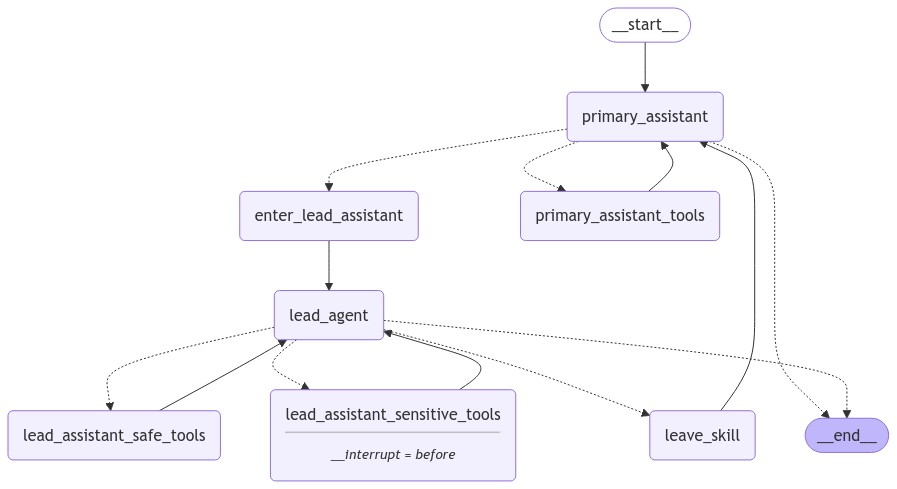
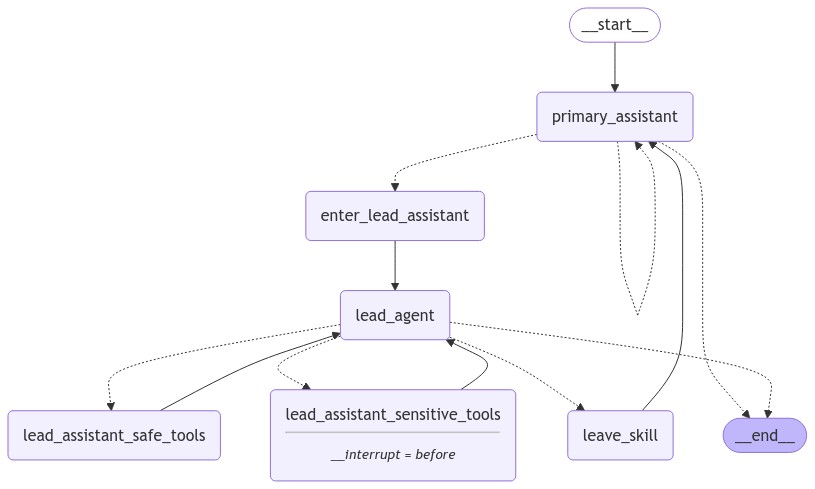
langgraph API

diff --git a/app/support_files/tool_execution.py b/app/support_files/tool_execution.py
@@ -10,82 +10,90 @@ graph = neo4j_connection()
 @tool
 def customer_existence_verification(name: str = None, email: str = None, phone: str = None, civil_id: str = None):
     """
-    Verify the existence of the Customer in our Database before lead creation.
-    
+    Verify the existence of the Customer in the database before lead creation.
+
     Parameters:
     - name: Customer's name (optional).
     - email: Customer's email (optional).
     - phone: Customer's phone (optional).
     - civil_id: Customer's civil ID (optional).
-    
+
     Returns:
     - Clear and actionable messages for the lead agent to understand the verification results.
-"""
-    def get_value(attributes):
-        return None if attributes is None or attributes.strip() == "" else attributes
+    """
 
+    def get_value(attr):
+        """Helper function to clean up attribute values."""
+        return None if attr is None or attr.strip() == "" else attr
+
+    # Clean inputs
     name = get_value(name)
     email = get_value(email)
     phone = get_value(phone)
     civil_id = get_value(civil_id)
-    def validation():
-        phone_validation = True
-        civil_validation = True
-        email_validation = True
 
+    if not name and not email and not phone and not civil_id:
+        # Ensure at least one parameter is provided
+        return "Error: At least one of name, email, phone, or civil ID is required to verify customer existence."
+
+    def validation():
+        """Validate the phone, email, and civil ID if provided."""
         if phone:
             phone_validation = validate_phone_number(phone)
             if phone_validation is not True:
                 return phone_validation
-        
+
         if civil_id:
             civil_validation = validate_civil_id(civil_id)
             if civil_validation is not True:
                 return civil_validation
-        
+
         if email:
             email_validation = validate_email_address(email)
             if email_validation is not True:
                 return email_validation
 
-        # If all validations pass, return True
-        return all([phone_validation, civil_validation, email_validation])
+        return True
 
     validated = validation()
 
     if validated == True:
-
         query = graph.query("""MATCH (c:Lead) RETURN c.name AS customer_name""")
-        names_list = [name for i in query for name in [i['customer_name']]]
+        names_list = [name['customer_name'] for name in query]
 
         def split_names(names):
-            return [name.split(' ', 1) if ' ' in name else name for name in names]
+            """Split full names into first and last for better matching."""
+            return [name.split(' ', 1) if ' ' in name else [name] for name in names]
 
         names_list = split_names(names_list)
-        def similar_names(user_name, names_list, threshold=0.86):
+
+        def find_similar_names(input_name, names_list, threshold=0.86):
+            """Find similar names in the database based on Jaro-Winkler similarity."""
             similar_names = []
             for name in names_list:
-                if isinstance(name, str):
-                    similarity = distance.get_jaro_distance(user_name, name)
-                    if similarity >= threshold:
-                        similar_names.append((name, similarity))
-                else:
-                    for i in name:
-                        similarity = distance.get_jaro_distance(user_name, i)
-                        if similarity >= threshold:
-                            similar_names.append((' '.join(name), similarity))
+                full_name = ' '.join(name) if isinstance(name, list) else name
+                similarity = distance.get_jaro_distance(input_name, full_name)
+                if similarity >= threshold:
+                    similar_names.append((full_name, similarity))
             return similar_names
 
-        if name and all(x is None for x in (phone, civil_id, email)):
-
-            name_result = similar_names(name, names_list, threshold=0.86)
-            print(name_result)
-            if name_result:
-                return f"The provided Name is associated with the following customer(s): {[i[0] for i in name_result]}. Would you like to proceed with one of these customers, or would you prefer to create a new lead?"        
+        if name and all(param is None for param in (phone, civil_id, email)):
+            # Verify only by name
+            name_matches = find_similar_names(name, names_list)
+            if name_matches:
+                matched_names = ', '.join([i[0] for i in name_matches])
+                return (
+                    f"The provided name is associated with the following customer(s): {matched_names}. "
+                    "Would you like to proceed with one of these customers, or create a new lead?"
+                )
             else:
-                return f"No matching results were found for the name '{name}'. Please review or confirm the provided details. Would you like to create a new lead instead?"
+                return (
+                    f"No matching results found for the name '{name}'. Please review or confirm the provided details. "
+                    "Would you like to create a new lead instead?"
+                )
 
         else:
+            # Create query with dynamic conditions based on provided data
             query = """
             MATCH (l:Lead)
             WHERE toLower(l.name) = toLower($name)
@@ -97,13 +105,15 @@ def customer_existence_verification(name: str = None, email: str = None, phone: 
                 conditions.append("l.civil_id = $civil_id")
             if email:
                 conditions.append("l.email = $email")
-            
+
             if conditions:
                 query += " AND " + " AND ".join(conditions)
 
             query += """
             RETURN l.name AS lead_name, l.phone_number AS phone_number, l.civil_id AS civil_id, l.email AS email, l.id AS lead_id
-            """        
+            """
+
+            # Run the query and check if a customer exists with the provided details
             verified_result = graph.query(query, {
                 'name': name,
                 'phone': phone,
@@ -112,12 +122,15 @@ def customer_existence_verification(name: str = None, email: str = None, phone: 
             })
 
             if verified_result:
-                return f"A customer named '{name}' already exists in our system with matching details (Phone: {verified_result[0]['phone_number']}, Email: {verified_result[0]['email']}, Civil ID: {verified_result[0]['civil_id']}). Would you like to proceed with this customer, or create a new lead?"
-            
-            else:        
+                customer_data = verified_result[0]
+                return (
+                    f"A customer named '{customer_data['lead_name']}' already exists in our system "
+                    f"with matching details (Phone: {customer_data['phone_number']}, Email: {customer_data['email']}, Civil ID: {customer_data['civil_id']}). "
+                    "Would you like to proceed with this customer, or create a new lead?"
+                )
+            else:
+                # Handle semi-verified results by running individual queries for each identifier
                 cypher_queries = []
-                semi_verified_result = []
-
                 if phone:
                     phone_query = """
                     MATCH (c:Lead)
@@ -142,6 +155,7 @@ def customer_existence_verification(name: str = None, email: str = None, phone: 
                     """
                     cypher_queries.append(("email", email_query))
 
+                # Run each individual query for partial verification
                 for query_type, query in cypher_queries:
                     db_result = graph.query(query, {
                         'name': name,
@@ -151,11 +165,21 @@ def customer_existence_verification(name: str = None, email: str = None, phone: 
                     })
 
                     if db_result:
-                        return f"I have identified that the {query_type} you provided is associated with {db_result[0]['customer_name']}. Could you please confirm or provide the correct {query_type} for {name}?"
+                        customer_data = db_result[0]
+                        return (
+                            f"I have identified that the {query_type} you provided is associated with "
+                            f"{customer_data['customer_name']}. Could you please confirm or provide the correct {query_type} "
+                            f"for {name}?"
+                        )
 
-                    else:
-                        return f"I was unable to locate the {query_type} ({phone if query_type == 'phone number' else civil_id if query_type == 'civil ID' else email}) in our system. Would you like to proceed with creating a new lead?"
-    else:return validated
+                return (
+                    "No matching records found for the provided details. "
+                    "Would you like to proceed with creating a new lead?"
+                )
+    else:
+        # Return the validation error message
+        return f"Validation Error: {validated}"
+
 
 @tool
 def customer_lead_creation(

diff --git a/app/main.py b/app/main.py
@@ -29,8 +29,7 @@ from langgraph.graph.message import AnyMessage, add_messages
 import os
 
 LANGCHAIN_TRACING_V2="true"
-LANGCHAIN_ENDPOINT="https://api.smith.langchain.com"
-LANGCHAIN_API_KEY= "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"
+LANGCHAIN_API_KEY= os.getenv("LANGCHAIN_API_KEY")
 LANGCHAIN_PROJECT="LangGraph-Chatbot"
 
 def update_dialog_stack(left: list[str], right: Optional[str]) -> list[str]:
@@ -203,8 +202,8 @@ primary_assistant_prompt = ChatPromptTemplate.from_messages(
     ]
 ).partial(time=datetime.now(ist_timezone).isoformat())
 
-primary_assistant_tools = [customer_existence_verification]
-primary_assistant_runnable = primary_assistant_prompt | model.bind_tools(primary_assistant_tools +[Lead_assistant])
+# primary_assistant_tools = [customer_existence_verification]
+primary_assistant_runnable = primary_assistant_prompt | model.bind_tools([Lead_assistant])
 def pop_dialog_state(state: State) -> dict:
     """Pop the dialog stack and return to the main assistant.
 
@@ -245,7 +244,7 @@ builder.add_node(
 
 builder.add_node("primary_assistant", Assistant(primary_assistant_runnable))
 builder.add_edge(START, "primary_assistant")
-builder.add_node("primary_assistant_tools", create_tool_node_with_fallback(primary_assistant_tools))
+# builder.add_node("primary_assistant_tools", create_tool_node_with_fallback(primary_assistant_tools))
 builder.add_node("leave_skill", pop_dialog_state)
 builder.add_edge("leave_skill", "primary_assistant")
 # builder.add_edge("primary_assistant", "enter_lead_assistant")
@@ -288,7 +287,7 @@ def route_lead_assistant(
 def route_primary_assistant(
     state: State,
 ) -> Literal[
-    "primary_assistant_tools",
+    "primary_assistant",
     "enter_lead_assistant",
     "__end__",
 ]:
@@ -299,7 +298,7 @@ def route_primary_assistant(
     if tool_calls:
         if tool_calls[0]["name"] == Lead_assistant.__name__:
             return "enter_lead_assistant"
-        return "primary_assistant_tools"
+        return "primary_assistant"
     raise ValueError("Invalid route")
 
 
@@ -310,11 +309,11 @@ builder.add_conditional_edges(
     route_primary_assistant,
     {
         "enter_lead_assistant": "enter_lead_assistant",
-        "primary_assistant_tools": "primary_assistant_tools",
+        "primary_assistant": "primary_assistant",
         END: END,
     },
 )
-builder.add_edge("primary_assistant_tools", "primary_assistant")
+# builder.add_edge("primary_assistant_tools", "primary_assistant")
 
 def route_to_workflow(
     state: State,
